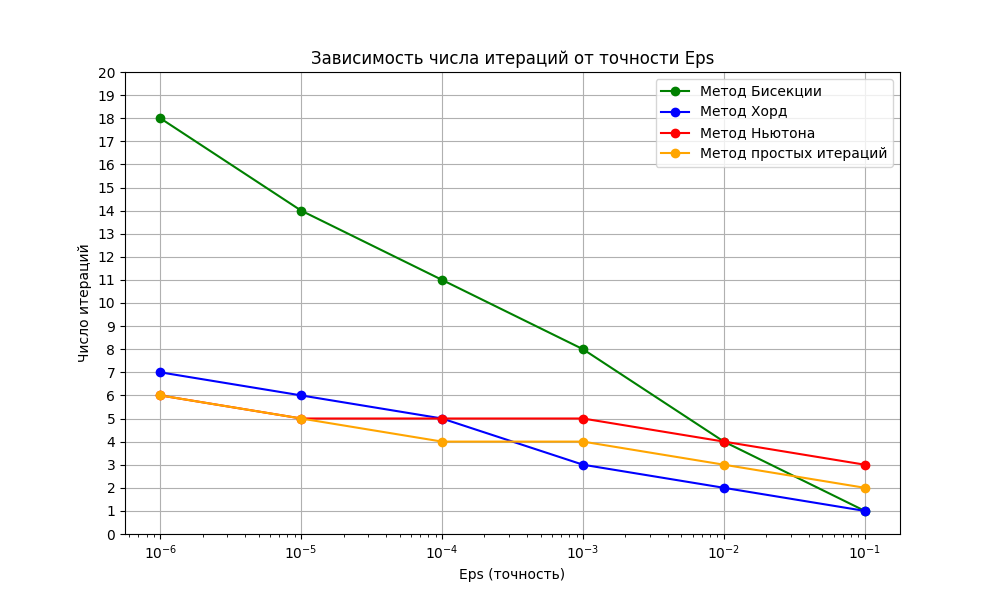
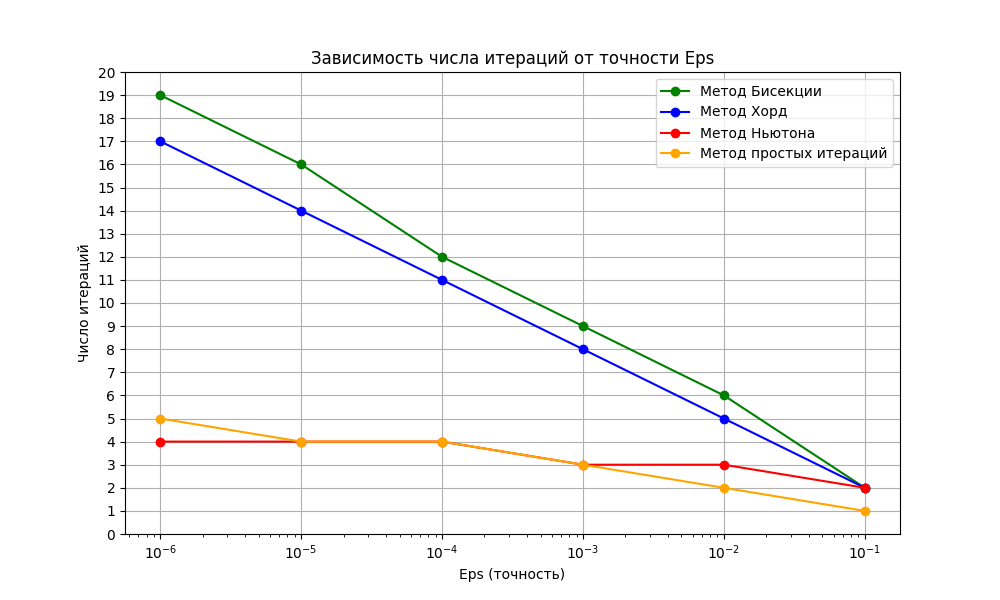
qewrtq

diff --git a/educ/lb6/main.py b/educ/lb6/main.py
@@ -182,6 +182,6 @@ def plot_iterations(left, right, x0, eps_values):
 
 def main():
     epsilons = [1e-1, 1e-2, 1e-3, 1e-4, 1e-5, 1e-6]
-    plot_iterations(0, 1, 1, epsilons)
+    plot_iterations(0.3, 1, 0.5, epsilons)
     explore_error(0, 1, epsilons)
 main()
